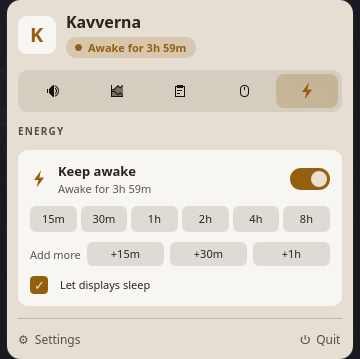
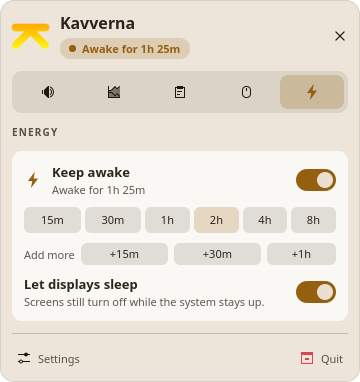
Refresh the screenshots from the current panel
Every page is rendered from the 0.6 QML against neutral sample data, in both lights and all three themes, so the pictures show the new header mark, the fold and grip that lead each card heading, and the reordered tabs.

Two pictures are new: Monitoring with Apps using CPU open, and the AI agents card. Both are shown in the README and on the site.

Changed region(s): [[0.0, 0.0, 1.0, 1.0], [0.825, 0.9192, 0.9472, 0.9805], [0.9167, 0.0919, 0.9472, 0.1226]]

diff --git a/docs/index.html b/docs/index.html
@@ -127,6 +127,14 @@
       <img src="assets/readme/light-monitoring.png" alt="Monitoring: processor, memory, pressure and both graphics cards">
     </picture>
     <picture>
+      <source media="(prefers-color-scheme: dark)" srcset="assets/readme/dark-monitoring-folds.png">
+      <img src="assets/readme/light-monitoring-folds.png" alt="Monitoring with Apps using CPU open: one row per application and its share of the processor">
+    </picture>
+    <picture>
+      <source media="(prefers-color-scheme: dark)" srcset="assets/readme/dark-agents.png">
+      <img src="assets/readme/light-agents.png" alt="AI agents: how much of each Claude Code and Codex window is used, and when it resets">
+    </picture>
+    <picture>
       <source media="(prefers-color-scheme: dark)" srcset="assets/readme/dark-clipboard.png">
       <img src="assets/readme/light-clipboard.png" alt="Clipboard history with search and quick paste shortcuts">
     </picture>

diff --git a/README.md b/README.md
@@ -40,6 +40,14 @@
     <img src="docs/assets/readme/light-monitoring.png" width="186" alt="Monitoring: processor, memory, pressure and both graphics cards">
   </picture>
   <picture>
+    <source media="(prefers-color-scheme: dark)" srcset="docs/assets/readme/dark-monitoring-folds.png">
+    <img src="docs/assets/readme/light-monitoring-folds.png" width="186" alt="Monitoring with Apps using CPU open: one row per application and its share of the processor">
+  </picture>
+  <picture>
+    <source media="(prefers-color-scheme: dark)" srcset="docs/assets/readme/dark-agents.png">
+    <img src="docs/assets/readme/light-agents.png" width="186" alt="AI agents: how much of each Claude Code and Codex window is used, and when it resets">
+  </picture>
+  <picture>
     <source media="(prefers-color-scheme: dark)" srcset="docs/assets/readme/dark-clipboard.png">
     <img src="docs/assets/readme/light-clipboard.png" width="186" alt="Clipboard history with search and quick paste shortcuts">
   </picture>
